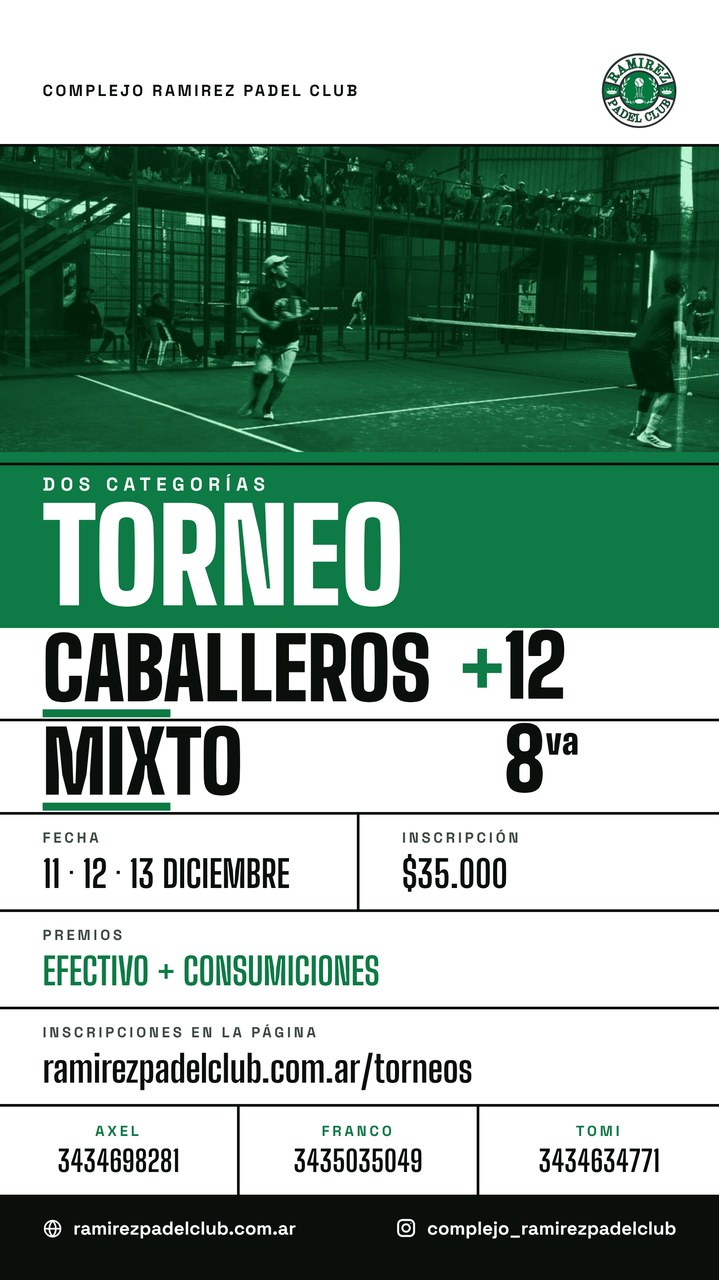
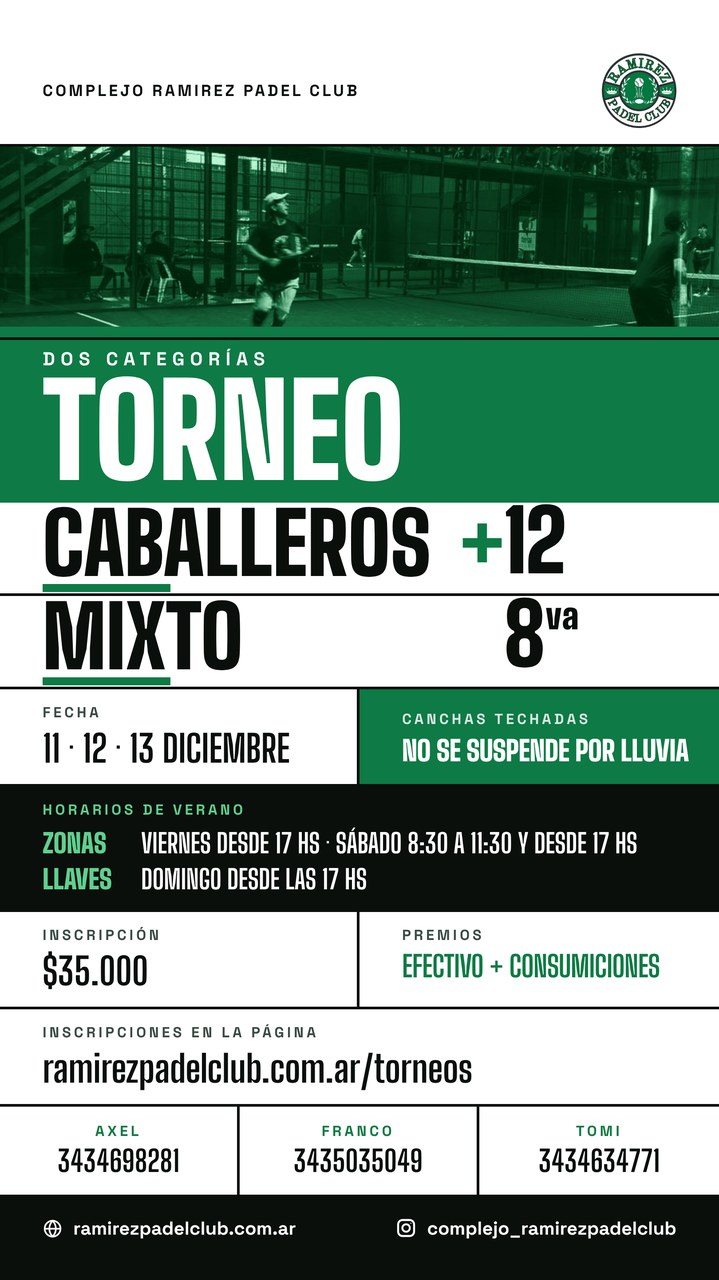
Horarios de verano en los torneos del 11-13 y 18-20 de diciembre
Claude-Session: https://claude.ai/code/session_01Xfj5ag84JSL3KbPWQhEGRD

diff --git a/index.html b/index.html
@@ -636,23 +636,23 @@ body.mc-abierto{overflow:hidden}
             <div class="t-pie"><span class="t-precio">$30.000 por jugador</span><button type="button" class="btn verde" data-insc>Inscribirme</button><button type="button" class="btn copiar" data-gest>Baja o cambiar horarios</button></div>
           </div>
         </article>
-        <article class="torneo" data-franjas="complejo" data-id="t-1113dic" data-fin="2026-12-13">
+        <article class="torneo" data-franjas="verano" data-id="t-1113dic" data-fin="2026-12-13">
           <img src="fotos/torneos/t-1113dic.jpg" alt="Flyer: Torneo Caballeros +12 y Mixto 8va, 11 · 12 · 13 de diciembre" loading="lazy" width="719" height="1280">
           <div class="t-info">
             <p class="t-fecha">11 · 12 · 13 DE DICIEMBRE</p>
             <h3>Torneo del complejo · Dos categorías</h3>
             <p class="t-lugar">Complejo Ramirez Pádel Club</p>
-            <ul class="t-datos"><li><b>Categorías:</b> Caballeros +12 · Mixto 8va</li><li><b>Premios:</b> efectivo + consumiciones</li></ul>
+            <ul class="t-datos"><li><b>Categorías:</b> Caballeros +12 · Mixto 8va</li><li><b>Premios:</b> efectivo + consumiciones</li><li><b>Horarios de verano:</b> zonas viernes desde 17 hs, sábado 8:30 a 11:30 y desde 17 hs · llaves domingo desde 17 hs</li></ul>
             <div class="t-pie"><span class="t-precio">$35.000 por jugador</span><button type="button" class="btn verde" data-insc>Inscribirme</button><button type="button" class="btn copiar" data-gest>Baja o cambiar horarios</button></div>
           </div>
         </article>
-        <article class="torneo" data-franjas="complejo" data-id="t-1820dic" data-fin="2026-12-20">
+        <article class="torneo" data-franjas="verano" data-id="t-1820dic" data-fin="2026-12-20">
           <img src="fotos/torneos/t-1820dic.jpg" alt="Flyer: Torneo Caballeros +9 y Damas +13, 18 · 19 · 20 de diciembre" loading="lazy" width="719" height="1280">
           <div class="t-info">
             <p class="t-fecha">18 · 19 · 20 DE DICIEMBRE</p>
             <h3>Torneo del complejo · Dos categorías</h3>
             <p class="t-lugar">Complejo Ramirez Pádel Club</p>
-            <ul class="t-datos"><li><b>Categorías:</b> Caballeros +9 · Damas +13</li><li><b>Premios:</b> efectivo + consumiciones</li></ul>
+            <ul class="t-datos"><li><b>Categorías:</b> Caballeros +9 · Damas +13</li><li><b>Premios:</b> efectivo + consumiciones</li><li><b>Horarios de verano:</b> zonas viernes desde 17 hs, sábado 8:30 a 11:30 y desde 17 hs · llaves domingo desde 17 hs</li></ul>
             <div class="t-pie"><span class="t-precio">$35.000 por jugador</span><button type="button" class="btn verde" data-insc>Inscribirme</button><button type="button" class="btn copiar" data-gest>Baja o cambiar horarios</button></div>
           </div>
         </article>
@@ -758,11 +758,13 @@ body.mc-abierto{overflow:hidden}
   function esc(t){var d=document.createElement('div');d.textContent=t;return d.innerHTML}
   function f(iso){if(!iso)return'';var d=new Date(iso+'-03:00'),h=d.getHours(),m=d.getMinutes();return['domingo','lunes','martes','miércoles','jueves','viernes','sábado'][d.getDay()]+' '+d.getDate()+', '+h+(m?':'+String(m).padStart(2,'0'):'')+' hs'}
   function cierreHTML(cs){return cs.length&&cs[0].cierre?'<p class="t-cierre"><b>Cierre de inscripción:</b> '+f(cs[0].cierre)+'</p>':''}
-  /* Franjas horarias: las del circuito (base) y las de los torneos propios del complejo (data-franjas="complejo"). */
+  /* Franjas horarias: las del circuito (base) y las de los torneos propios del complejo (data-franjas="complejo" o "verano"). */
   var FR={
     base:{op:[['Viernes 14 a 00 hs','<b>Viernes</b> 14:00 a 00:00'],['Sábado mañana 9 a 13 hs','<b>Sábado mañana</b> 9:00 a 13:00'],['Sábado siesta/tarde 13 a 18 hs','<b>Sábado siesta/tarde</b> 13:00 a 18:00'],['Sábado noche 18 a 00 hs','<b>Sábado noche</b> 18:00 a 00:00']],
       regla:'al menos dos franjas del sábado, o el viernes completo'},
-    complejo:{op:[['Viernes desde 17 hs','<b>Viernes</b> desde las 17:00'],['Sábado mañana 8:30 a 11:30 hs','<b>Sábado mañana</b> 8:30 a 11:30'],['Sábado desde 16 hs','<b>Sábado tarde/noche</b> desde las 16:00']],
+    complejo:{op:[['Viernes desde 16 hs','<b>Viernes</b> desde las 16:00'],['Sábado mañana 8:30 a 11:30 hs','<b>Sábado mañana</b> 8:30 a 11:30'],['Sábado desde 16 hs','<b>Sábado tarde/noche</b> desde las 16:00']],
+      regla:'el viernes, o las dos franjas del sábado'},
+    verano:{op:[['Viernes desde 17 hs','<b>Viernes</b> desde las 17:00'],['Sábado mañana 8:30 a 11:30 hs','<b>Sábado mañana</b> 8:30 a 11:30'],['Sábado desde 17 hs','<b>Sábado tarde/noche</b> desde las 17:00']],
       regla:'el viernes, o las dos franjas del sábado'}
   };
   function frDe(id){var c=document.querySelector('.torneo[data-id="'+id+'"]');return FR[(c&&c.dataset.franjas)||'base']||FR.base}
